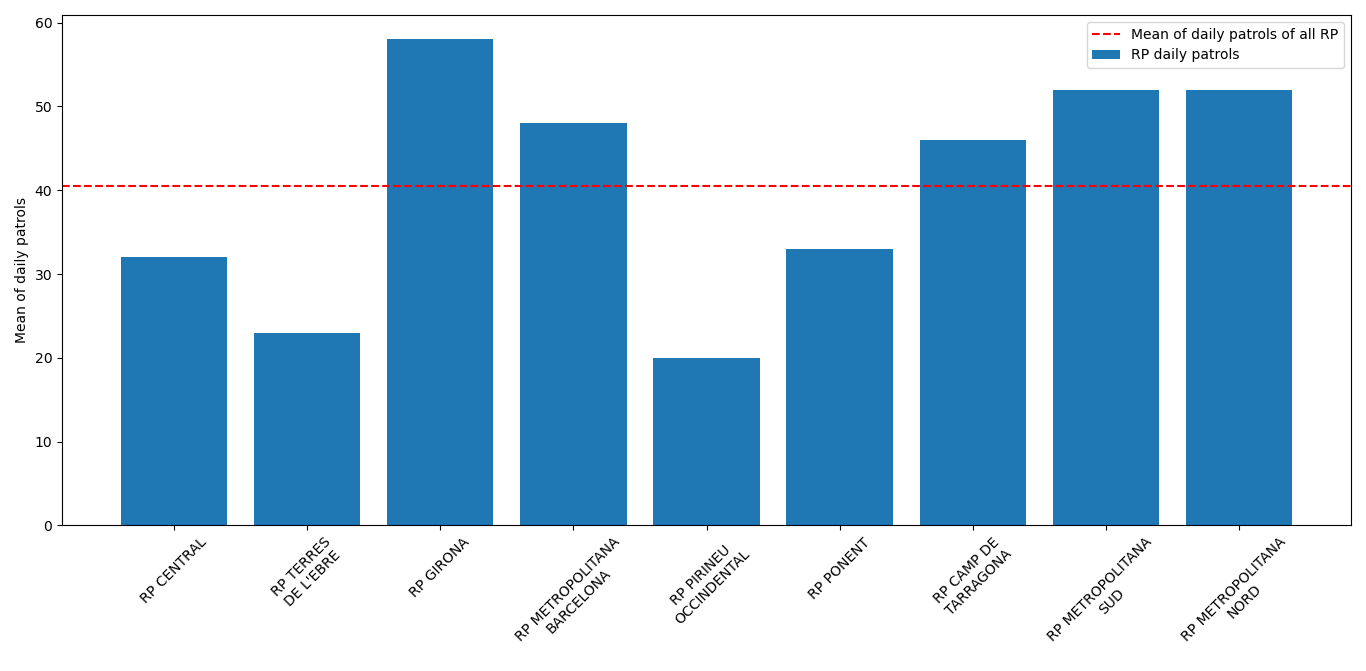
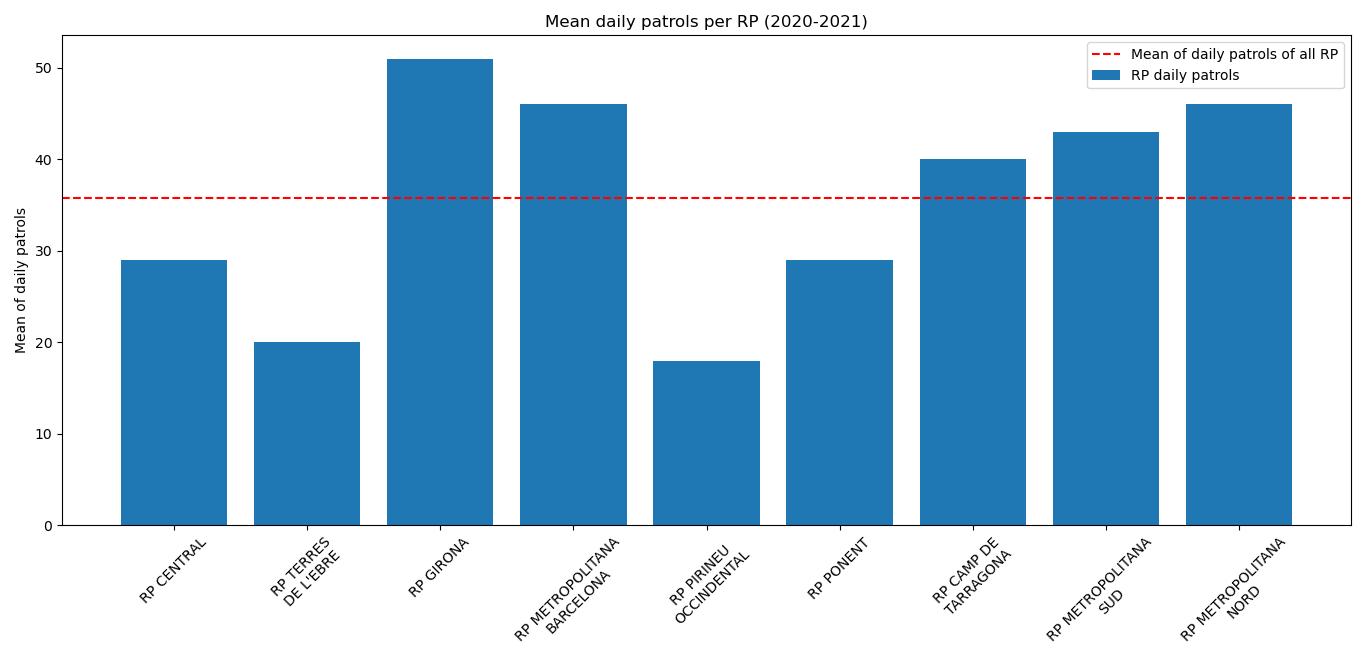
I upgreade some docuemtns. Right now I am stucked because I have to relate values of different series that do not have the same format or orer

diff --git a/Martins/hello_word.py b/Martins/hello_word.py
@@ -26,23 +26,16 @@ results = client.get("vvp8-t2ai", limit=10000)
 # Convert to pandas DataFrame
 results_df = pd.DataFrame.from_records(results)
 
-#We have data from 2011. However we will only use the one from 2015 in order 
-#study a more current situation. Moreover, we will work with the data until 
-#2021 because we will relate the number of daily patrols with the population 
-#and there is only population data until 2021.
+#We have data from 2011. However we will only use 2020 and 2021 in order to 
+#make it comparable with my companions data.
 
-results_df=results_df.loc[(results_df['any']=='2021') | 
-                          (results_df['any']=='2020') |
-                          (results_df['any']=='2019') |
-                          (results_df['any']=='2018') |
-                          (results_df['any']=='2017') |
-                          (results_df['any']=='2016') |
-                          (results_df['any']=='2015') ]
+results_df=results_df.loc[(results_df['any']=='2020') | 
+                          (results_df['any']=='2021') ]
                           
 
 #All the strings ARE NOT in the same type of letter!
 abps_serveis=results_df.servei_origen_dotaci.str.upper()
-print(set(abps_serveis))
+
 
 rp_c = "SERVEIS REGIONALS - RP CENTRAL"
 rp_po="SERVEIS REGIONALS - RP PIRINEU OCCIDENTAL"
@@ -64,8 +57,6 @@ abps_serveis=(abps_serveis.replace('SERVEIS EGIONALS - RPCT', rp_c)
               .replace('SERVEIS REGIONALS - RPP', rp_p)
               .replace('SERVEIS REGIONALS - RPMB', rp_mb))
               
-print(set(abps_serveis))
-
 
 patrols=results_df['mitjana_patrulles_di_ries']
 
@@ -144,24 +135,22 @@ import matplotlib.pyplot as plt
 
 #We delete the first part of the values of the list of Serveis Regionals in 
 #order to do a clearer plot. 
-serveis_list_=[letter[20:] for letter in serveis_list]
+serveis_list_new=[letter[20:] for letter in serveis_list]
 
 #We write in two lines some Serveis Regionals in order to do a clear label
-serveis_list_[2]="RP TERRES\nDE L'EBRE"
-serveis_list_[4]="RP METROPOLITANA\nBARCELONA"
-serveis_list_[5]="RP PIRINEU\nOCCINDENTAL"
-serveis_list_[7]="RP CAMP DE\nTARRAGONA"
-serveis_list_[8]="RP METROPOLITANA\nSUD"
-serveis_list_[9]="RP METROPOLITANA\nNORD"
-
-print(serveis_list_)
-
+servei_list_plot=serveis_list_new.copy()
+servei_list_plot[2]="RP TERRES\nDE L'EBRE"
+servei_list_plot[4]="RP METROPOLITANA\nBARCELONA"
+servei_list_plot[5]="RP PIRINEU\nOCCINDENTAL"
+servei_list_plot[7]="RP CAMP DE\nTARRAGONA"
+servei_list_plot[8]="RP METROPOLITANA\nSUD"
+servei_list_plot[9]="RP METROPOLITANA\nNORD"
 
 
 #We only ploy the Serveis Regionals
 plt.figure()
-plt.title('Mean daily patrols per RP (2015-2021)')
-plt.bar(serveis_list_[1:],serveis_mean_patrols_list[1:], 0.8, label='RP daily patrols')
+plt.title('Mean daily patrols per RP (2020-2021)')
+plt.bar(servei_list_plot[1:],serveis_mean_patrols_list[1:], 0.8, label='RP daily patrols')
 plt.xticks(fontsize=10, rotation=45)
 plt.yticks(fontsize=10)
 plt.ylabel('Mean of daily patrols')
@@ -175,62 +164,17 @@ plt.legend()
 #%%
 """
 Now we want to represent the mean number of daily patrols per inhabitant in 
-order to know if it is homhogeneous
+order to know if it is homogeneous
 """
 
 #Firs we import the data of the inhabitants for comarques and then we will
 #classify them for regions policials. 
+poblacio =  pd.read_excel('PoblacioRP.xlsx')
 
-poblacio_all_df =  pd.read_csv('poblacio_comarques.csv', sep=',', skiprows = 9)
-
-#We will only choose 2015-2021 because some delimitations changed before that.
-#Also, we only want the comarcas and in our data set there is inhabitants per
-#Catalunya, per ambits and per provincia
-poblacio_df=poblacio_all_df[poblacio_all_df.columns[:8]]
-
-poblacio_df = poblacio_df.drop(labels=range(42, 55), axis=0)
-
-#Now we make the mean of the population for each comarca
-mean_comarca = poblacio_df.loc[:, ["2021","2020","2019", "2018", "2017", "2016", "2015"]].mean(axis = 1)
-
-#We obtain the name of the comarques in the same order as the mean of
-#inhabitants
-nom_comarca= poblacio_df[poblacio_df.columns[0]]
-
-#We transform our panda series to lists
-mean_comarques=[]
-comarques=[]
-
-for comarca in nom_comarca:
-    comarques.append(comarca)
-
-for mean in mean_comarca:
-    comarques.append(mean)
-
-#%%
-
-#We have to sum all the inhabitants per comarca in order to obtain the number
-#of inhabitants per RP, which is what we want.
-
-#First, we create the dictionary
-RP_METROPOLITANA_NORD = ["Maresme", 'Vallès Occidental', 'Vallès Oriental']
-RP_GIRONA = ['Alt Empordà', 'Gironès', 'Selva', 'Garrotxa', 'Ripollès',
-             "Pla de l'Estany", "Baix Empordà"]
-RP_CENTRAL = ['Osona', 'Berguedà', 'Solsonès', 'Bages', 'Anoia', 'Moianès']
-RP_METROPOLITANA_SUD = ['Baix Llobregat', 'Garraf', 'Alt Penedès']
-RP_CAMP_DE_TARRAGONA = ['Baix Penedès', 'Alt Camp', 'Tarragonès', 'Conca de Barberà', 'Baix Camp','Priorat']
-RP_TERRES_DE_EBRE = ["Ribera d'Ebre", "Terra Alta","Baix Ebre", "Montsià"]
-RP_PONENT = ['Segrià', 'Garrigiues', "Pla d'Urgell", "Urgell","Segarra", "Noguera", "Garrigues"]
-RP_PIRINEU_OCCIDENTAL = ["Pallars Jussà","Alt Urgell", "Pallars Sobirà", "Alta Ribagorça", "Val d'Aran", "Cerdanya"]
-
-comarques = RP_METROPOLITANA_NORD + RP_GIRONA + RP_CENTRAL + RP_METROPOLITANA_SUD\
-    + RP_CAMP_DE_TARRAGONA + RP_TERRES_DE_EBRE + RP_PONENT + RP_PIRINEU_OCCIDENTAL
-    
-comarq_dict = {'RP METROPOLITANA NORD':RP_METROPOLITANA_NORD, 
-               "RP GIRONA":RP_GIRONA, 'RP CENTRAL':RP_CENTRAL, "RP METROPOLITANA SUD":RP_METROPOLITANA_SUD,
-               "RP CAMP DE TARRAGONA":RP_CAMP_DE_TARRAGONA, 
-               "RP TERRES DE L'EBRE":RP_TERRES_DE_EBRE,"RP PONENT": RP_PONENT, 
-               "RP PIRINEU OCCIDENTAL": RP_PIRINEU_OCCIDENTAL}
+#Now we have to divide the number of mean daily patrols by the number of 
+#inhabitants. We see that they are not in the same format an order.
+print(poblacio)
+print(serveis_list_new)
 
 
         
